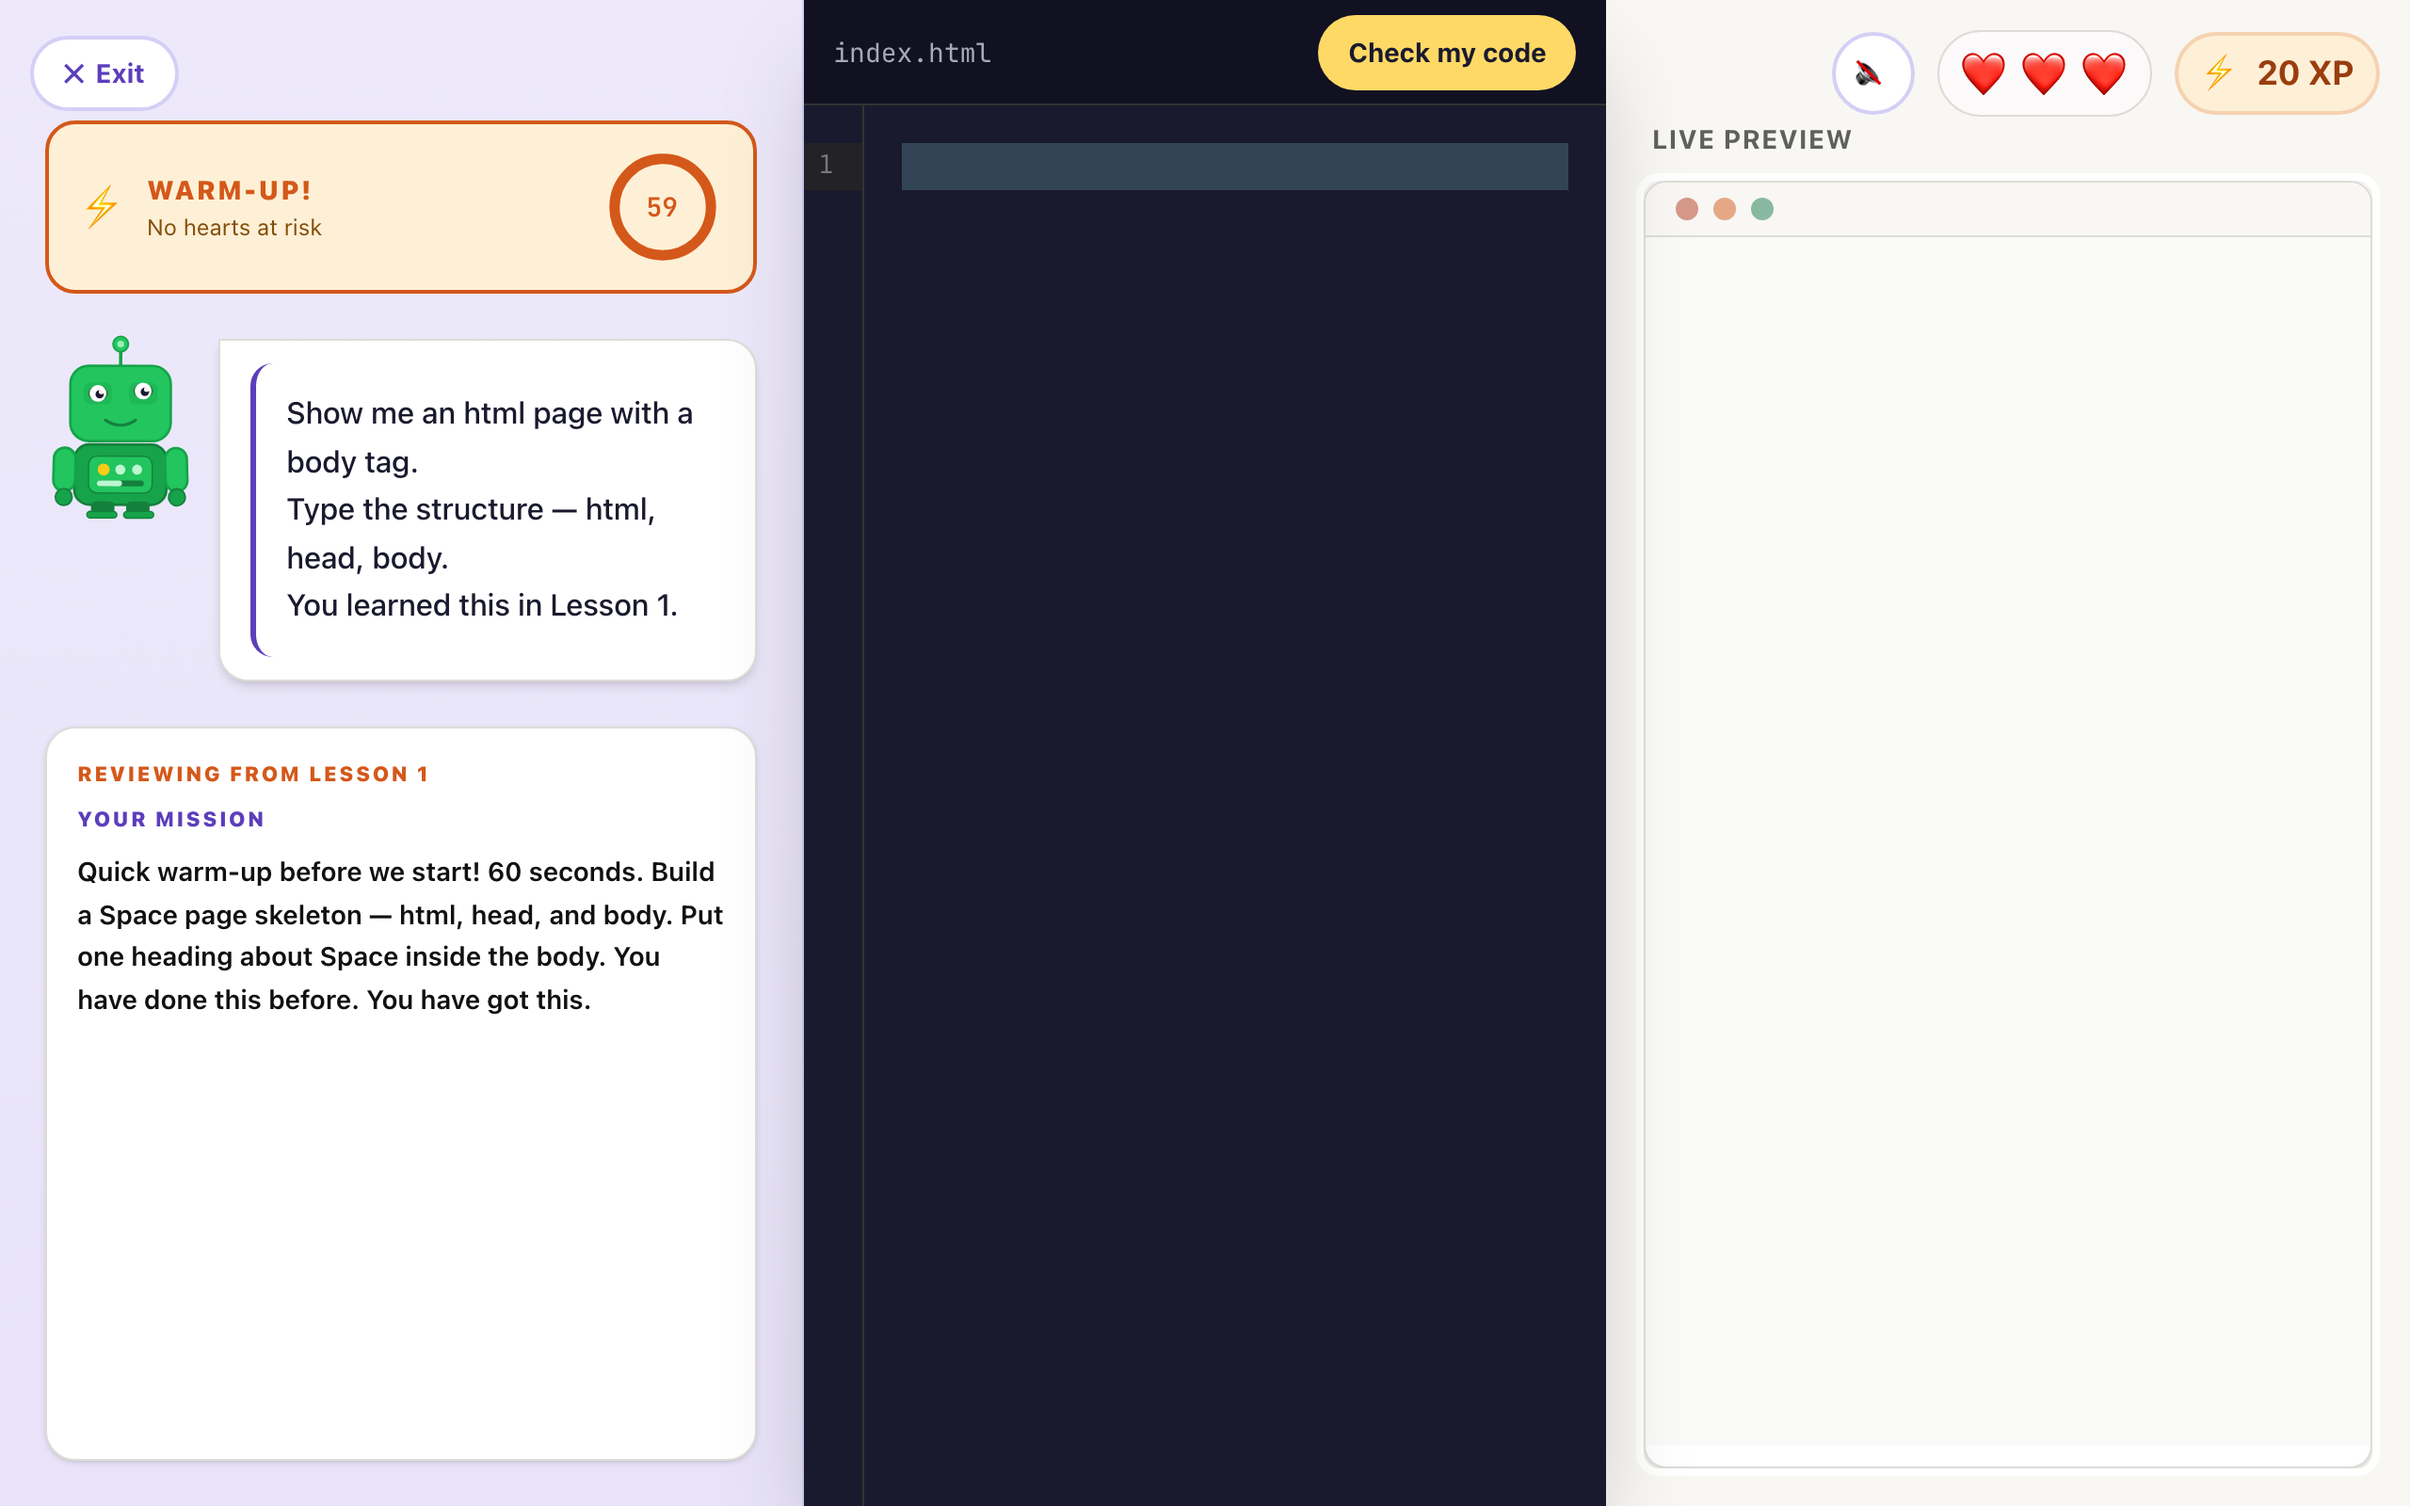
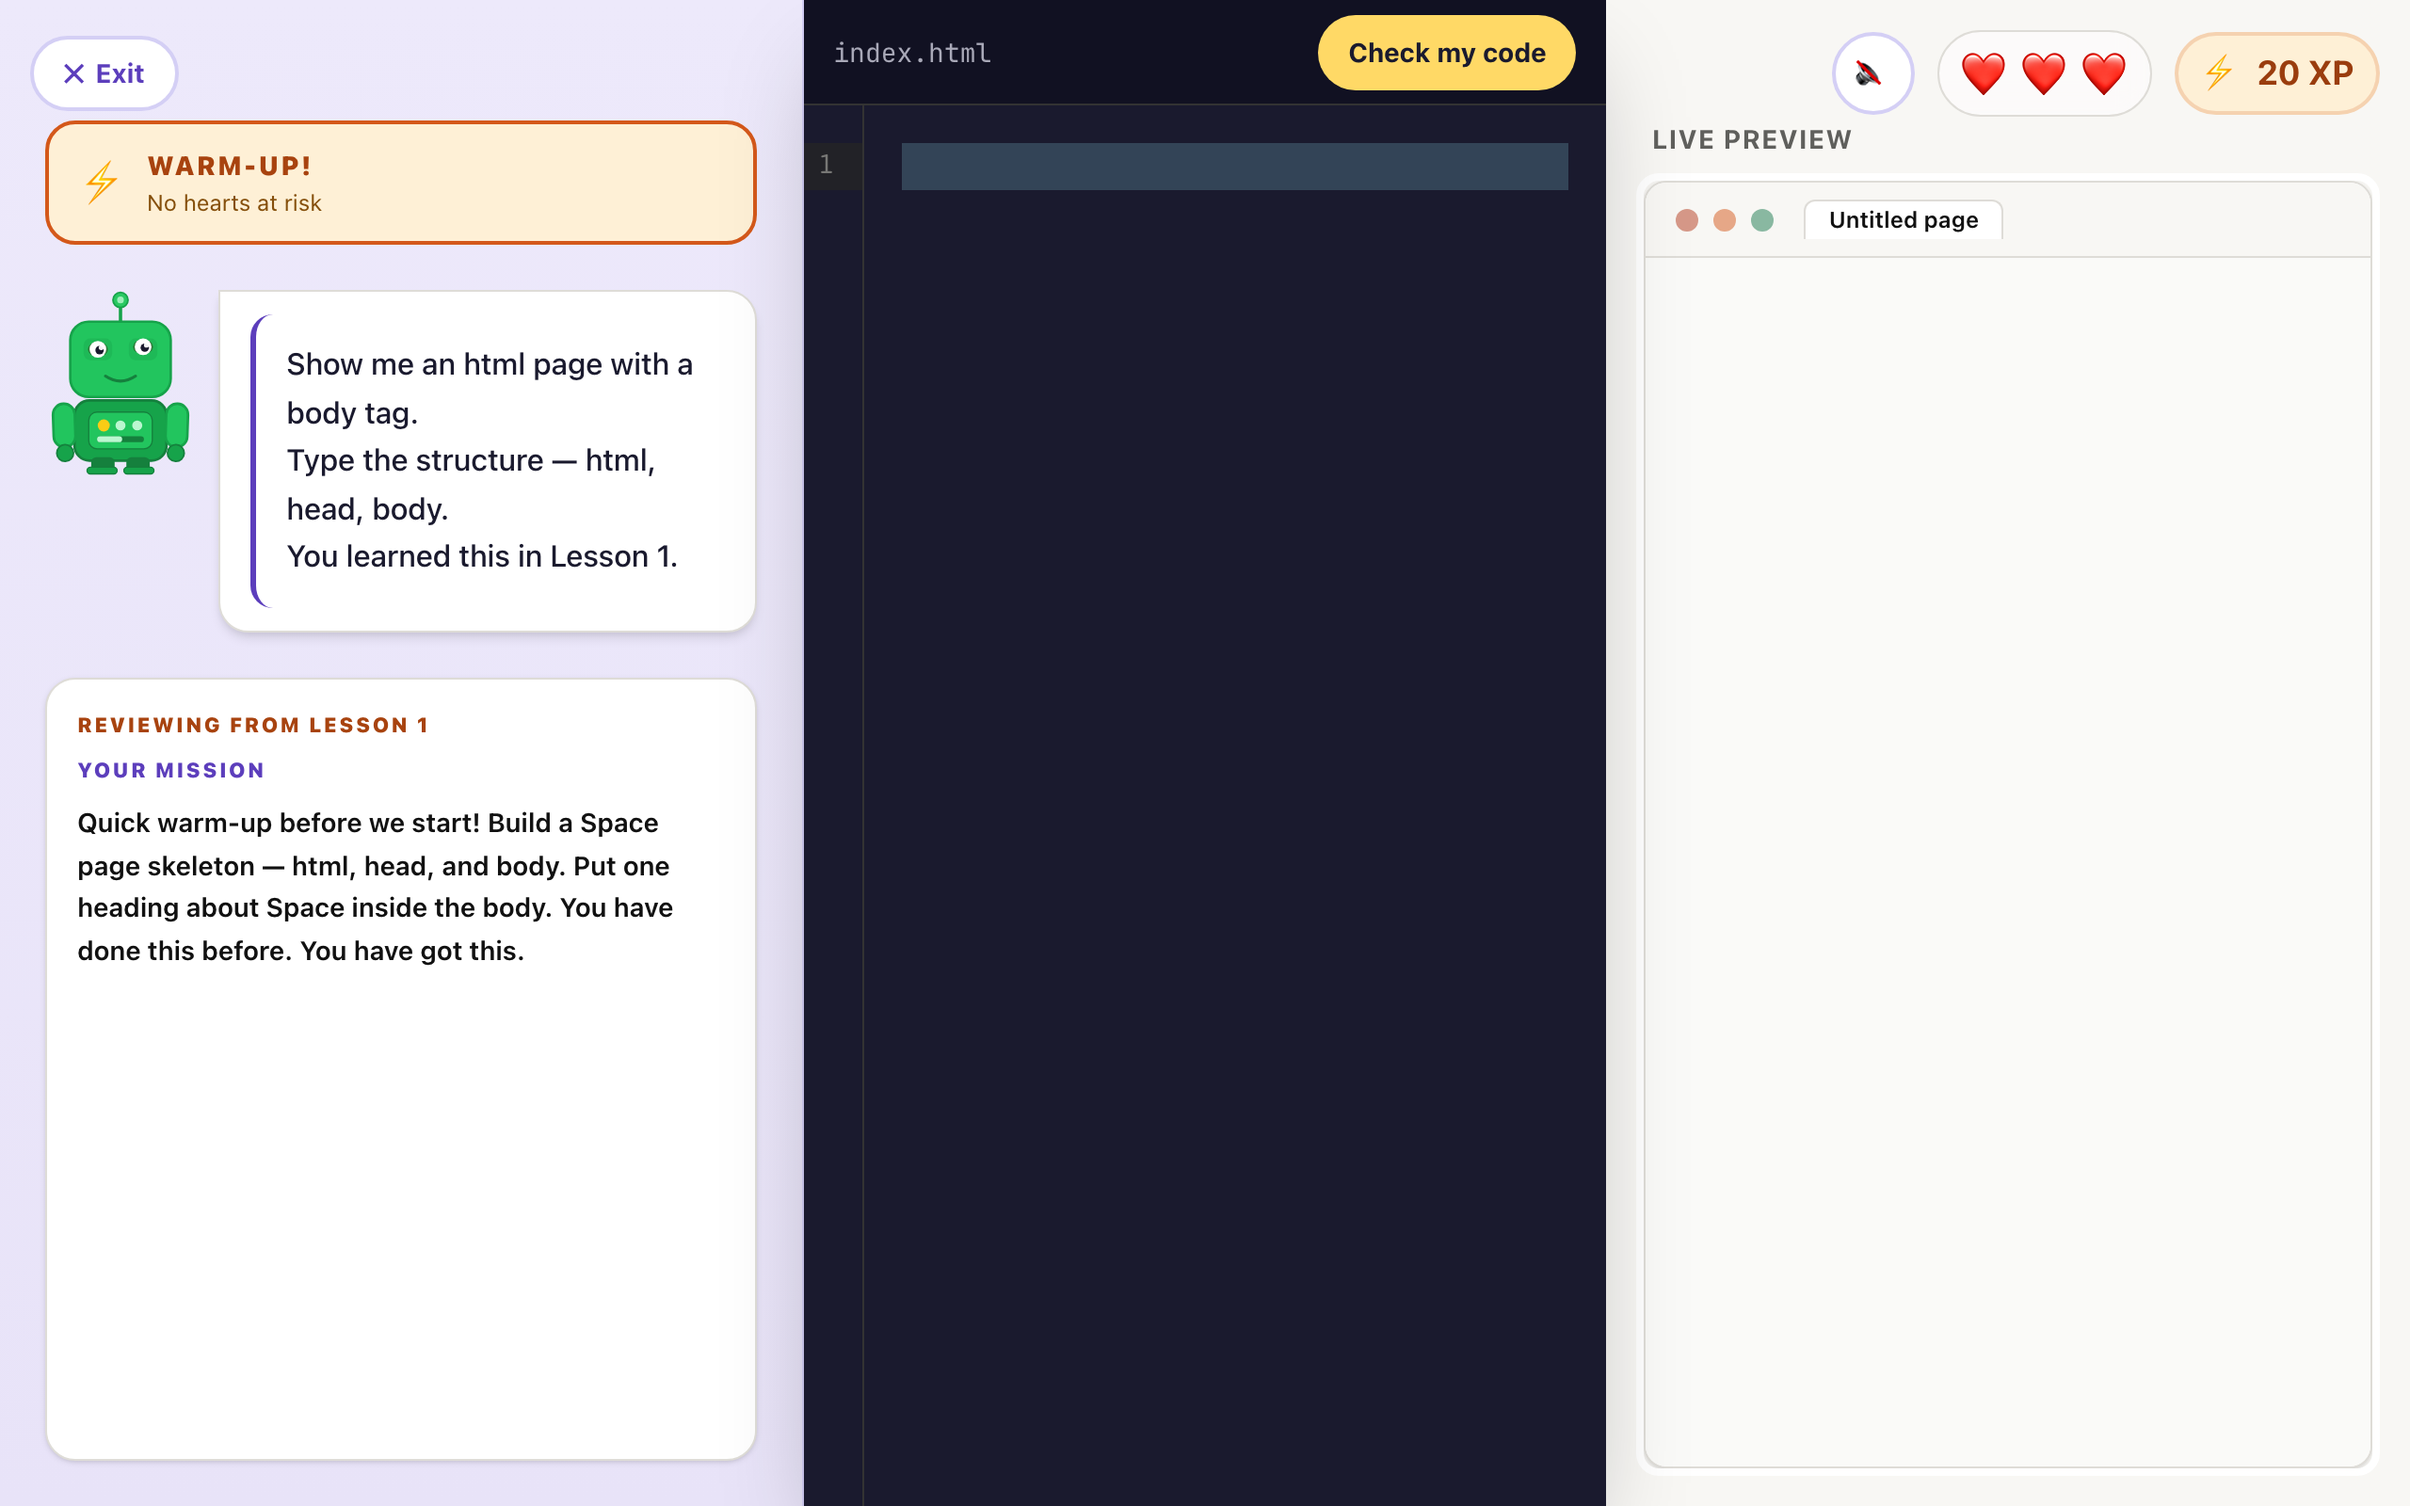
docs(case-study): record the 'after' and a before/after results page
Rerun scripts/a11y-report.mjs (same screens and settings as the
baseline) into docs/case-study/a11y-after: 0 axe violations on all 7
screens, down from 3-6 rules each. Retake responsive screenshots (no
horizontal overflow at 375/768/1280). docs/case-study/RESULTS.md
summarises accessibility (axe and accessibility trees), correctness,
learning design, security, responsive, performance and tests, each
linked to its evidence or commit.

Changed region(s): [[0.0, 0.0938, 0.3125, 0.6875], [0.6875, 0.125, 0.8125, 0.1562]]

diff --git a/docs/case-study/RESULTS.md b/docs/case-study/RESULTS.md
@@ -1,0 +1,101 @@
+# Code4Kidz remediation: before and after
+
+Evidence for every claim below is in this folder or in the commit named next to it. The "before" is the app as
+prototyped (commit `395ae36`); the "after" is branch `chore/strip-scaffold` at `69c9148`.
+
+## Accessibility: automated (axe-core 4.13, WCAG 2.1 A/AA + best practice)
+
+Same script, same screens, same settings: `node scripts/a11y-report.mjs <dir>`.
+
+| Screen | Before: rules / elements | After |
+|---|---|---|
+| Landing | 4 / 27 | 0 / 0 |
+| Onboarding | 3 / 3 | 0 / 0 |
+| Map | 4 / 7 | 0 / 0 |
+| Lesson 1 intro | 4 / 9 | 0 / 0 |
+| Lesson step | 6 / 16 | 0 / 0 |
+| Lesson step, wrong answer shown | 6 / 16 | 0 / 0 |
+| Lesson step, hint open | 6 / 18 | 0 / 0 |
+
+Details: [`a11y-before/`](a11y-before/) and [`a11y-after/`](a11y-after/) (violations JSON, accessibility tree, screenshot
+per screen). CI now fails if any of these screens regresses (`e2e/a11y.spec.ts`, desktop and phone).
+
+## Accessibility: what a screen reader gets (the part axe cannot measure)
+
+Lesson 1, step 1, with the hint open. From the accessibility trees in `*/lesson-1-hint-open.aria.yml`.
+
+**Before**
+
+```
+- text: Not quite! Check the hint if you need help.        ← plain text, never announced
+- button "💡 Need a hint?"
+- button "Press space or tap to continue": "It starts with …"  ← the hint's name replaces its text; pressing it does nothing
+- text: ✕ Keep trying... Live Preview                      ← present before the learner has typed anything
+  (no main landmark, no heading, no named panels, editor has no name)
+```
+
+**After**
+
+```
+- banner: button "Exit", button "Turn sound effects on", "3 of 3 hearts left", "0 XP"
+- main "Lesson 1: Say Hello to the Web! — Step 1 of 5"
+  - heading level 1 (same text)
+  - status: <Byte's current message, announced when it changes>
+  - region "Instructions": …, button "Hide hint" [expanded], <the hint text itself>
+  - region "Code editor": textbox "Your code"
+  - region "Live preview": iframe
+```
+
+Keyboard: focus lands on **Continue** at the intro (Enter continues); the editor is three Tabs away; every control has a
+visible focus ring (there were none). `Check my code` also works with Ctrl/Cmd+Enter.
+
+Not yet done: a recording with a real screen reader (VoiceOver). The trees above are a machine proxy.
+
+## Correctness
+
+| Problem | Before | After | Commit |
+|---|---|---|---|
+| Streak-broken screen | white-screen crash ("Rendered more hooks") | shows and dismisses | `2e35b7b` |
+| XP, hearts, review | steps never gave XP, hearts never lost, review never reachable (stale editor callback) | all work, covered by hook tests | `2e35b7b` |
+| Answer checking | 29 of 123 test cases failed: warm-ups passed on "x", CSS steps passed on a single space, two bug-fix steps passed unfixed | 123 / 123 | `49cac03` |
+| Onboarding | entering a topic skipped both celebration screens | shown | `f3985f9` |
+| Streak | counted app opens, mixed UTC and local days, "gone for 0 days" | counts practice, local days, correct count, migrated saves | `d8478ed` |
+| Sounds | every sound 404'd | synthesised tones | `b4fed31` |
+| Early check race | a quick "Check my code" result was overwritten by the step prompt | kept | `69c9148` |
+
+## Learning design (cognitive load)
+
+- Pausing to think no longer counts as a mistake. Before, 2.5s of unfinished code counted, and every third cost a
+  heart. Mistakes now count only when the learner presses **Check my code** (`2241e10`).
+- Hints are available from the start instead of after two "mistakes".
+- The warm-up's 60-second countdown (which turned red and then did nothing) is gone.
+- Copy that wasn't true is fixed: no "millions of people will see it", and the preview's tab now really shows the
+  page title as lesson 1 promises.
+
+## Security
+
+The preview iframe used `allow-scripts allow-same-origin`. Reproduced before the fix: a `<script>` typed into the lesson
+editor renamed the app's tab and read its saved progress. After: `sandbox=""`; the same script does nothing
+(`04c867b`).
+
+## Responsive
+
+At 375px the lesson screen was three ~125px columns under an overlapping header ([before](responsive/before-phone.png)).
+Now phones get a header row, an Instructions / Code / Preview switcher and a stacked review screen, with no horizontal
+overflow at 375, 768 or 1280px ([after](responsive/after-phone.png)). A full lesson plus review was completed at 375px.
+
+## Performance
+
+| | Before | After |
+|---|---|---|
+| JavaScript on first load (gzip) | 367 KB (one bundle) | 146 KB; the editor loads on the first lesson |
+| Map: DOM subtrees torn down during 60 mouse moves | 180 | 0 |
+
+## Tests
+
+| | Before | After |
+|---|---|---|
+| Unit / component tests | 0 | 196 |
+| End-to-end + axe (desktop and phone) | 0 | 12 |
+| Lint (react-hooks rules) | not configured, 39 errors when added | 0 errors |
+| CI | none | typecheck, lint, tests, build, e2e on every push and PR |

diff --git a/docs/case-study/a11y-after/SUMMARY.md b/docs/case-study/a11y-after/SUMMARY.md
@@ -1,0 +1,9 @@
+| Screen | axe rules violated | elements affected | rules |
+|---|---|---|---|
+| landing | 0 | 0 | none |
+| onboarding | 0 | 0 | none |
+| map | 0 | 0 | none |
+| lesson-1-intro | 0 | 0 | none |
+| lesson-1-step-1 | 0 | 0 | none |
+| lesson-1-wrong-answer | 0 | 0 | none |
+| lesson-1-hint-open | 0 | 0 | none |
